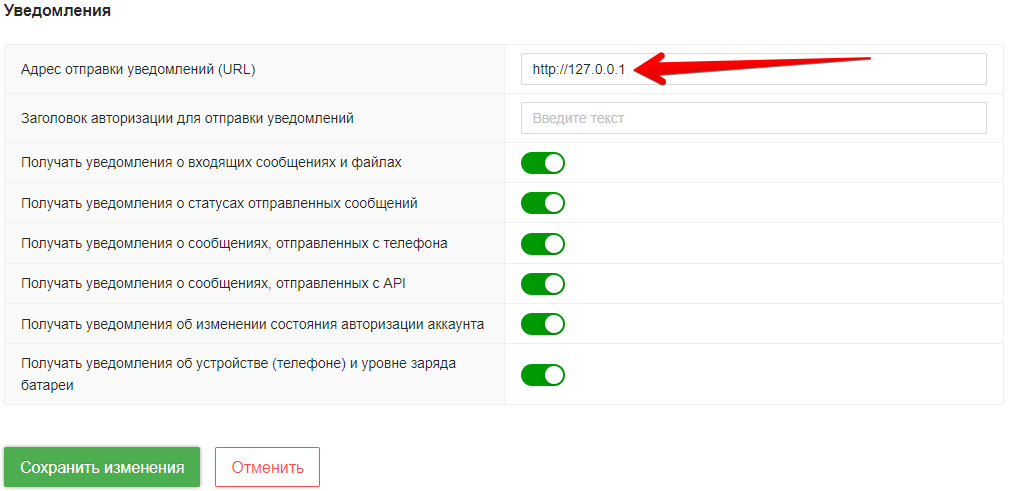
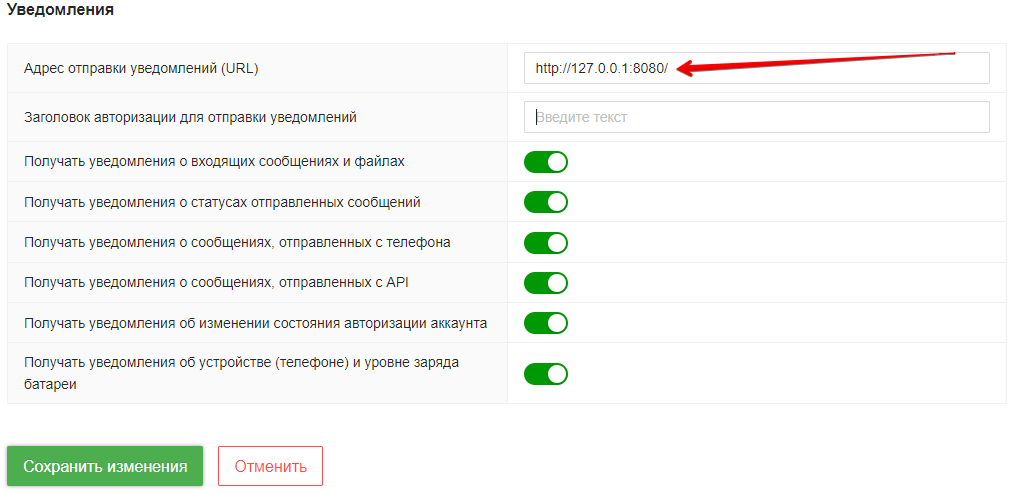
readme docker

diff --git a/README.md b/README.md
@@ -126,6 +126,27 @@ python3 echo.py
 
 Также потребуется открыть соответствующий порт во внешнюю сеть, установив настройка брандмауэра (Дополнительные параметры -> Правила для входящих подключений -> Создать правило -> Тип правила = Порт, Протоколы и порт -> TCP, указать порт, Действие -> Разрешить соединение)
 
+## Пример разворачивания среды сервера в контейнере Docker
+
+На машине должен быть установлен docker.
+
+Для получения образа из DockerHub воспользуемся командой:
+
+```
+sudo docker pull greenapi/whatsapp-api-webhook-server-python
+```
+
+Запустим образ в контейнере с указанием порта и отображением консоли:
+
+```
+sudo docker run --publish 8080:80 -it greenapi/whatsapp-api-webhook-server-python
+```
+
+Вместо порта 8080 можно указать любой свободный порт машины. В консоле [кабинета Green-Api](https://console.green-api.com/instanceList/) нужно будет указать IP (или внешнее имя машины) с указанием этого порта.
+
+После запуска контейнера в консоль контейнера должны приходить вебхуки.
+
+
 ## Запуск сервера
 
 Для использования в ваших решениях достаточно импортировать класс webhooksHandler
